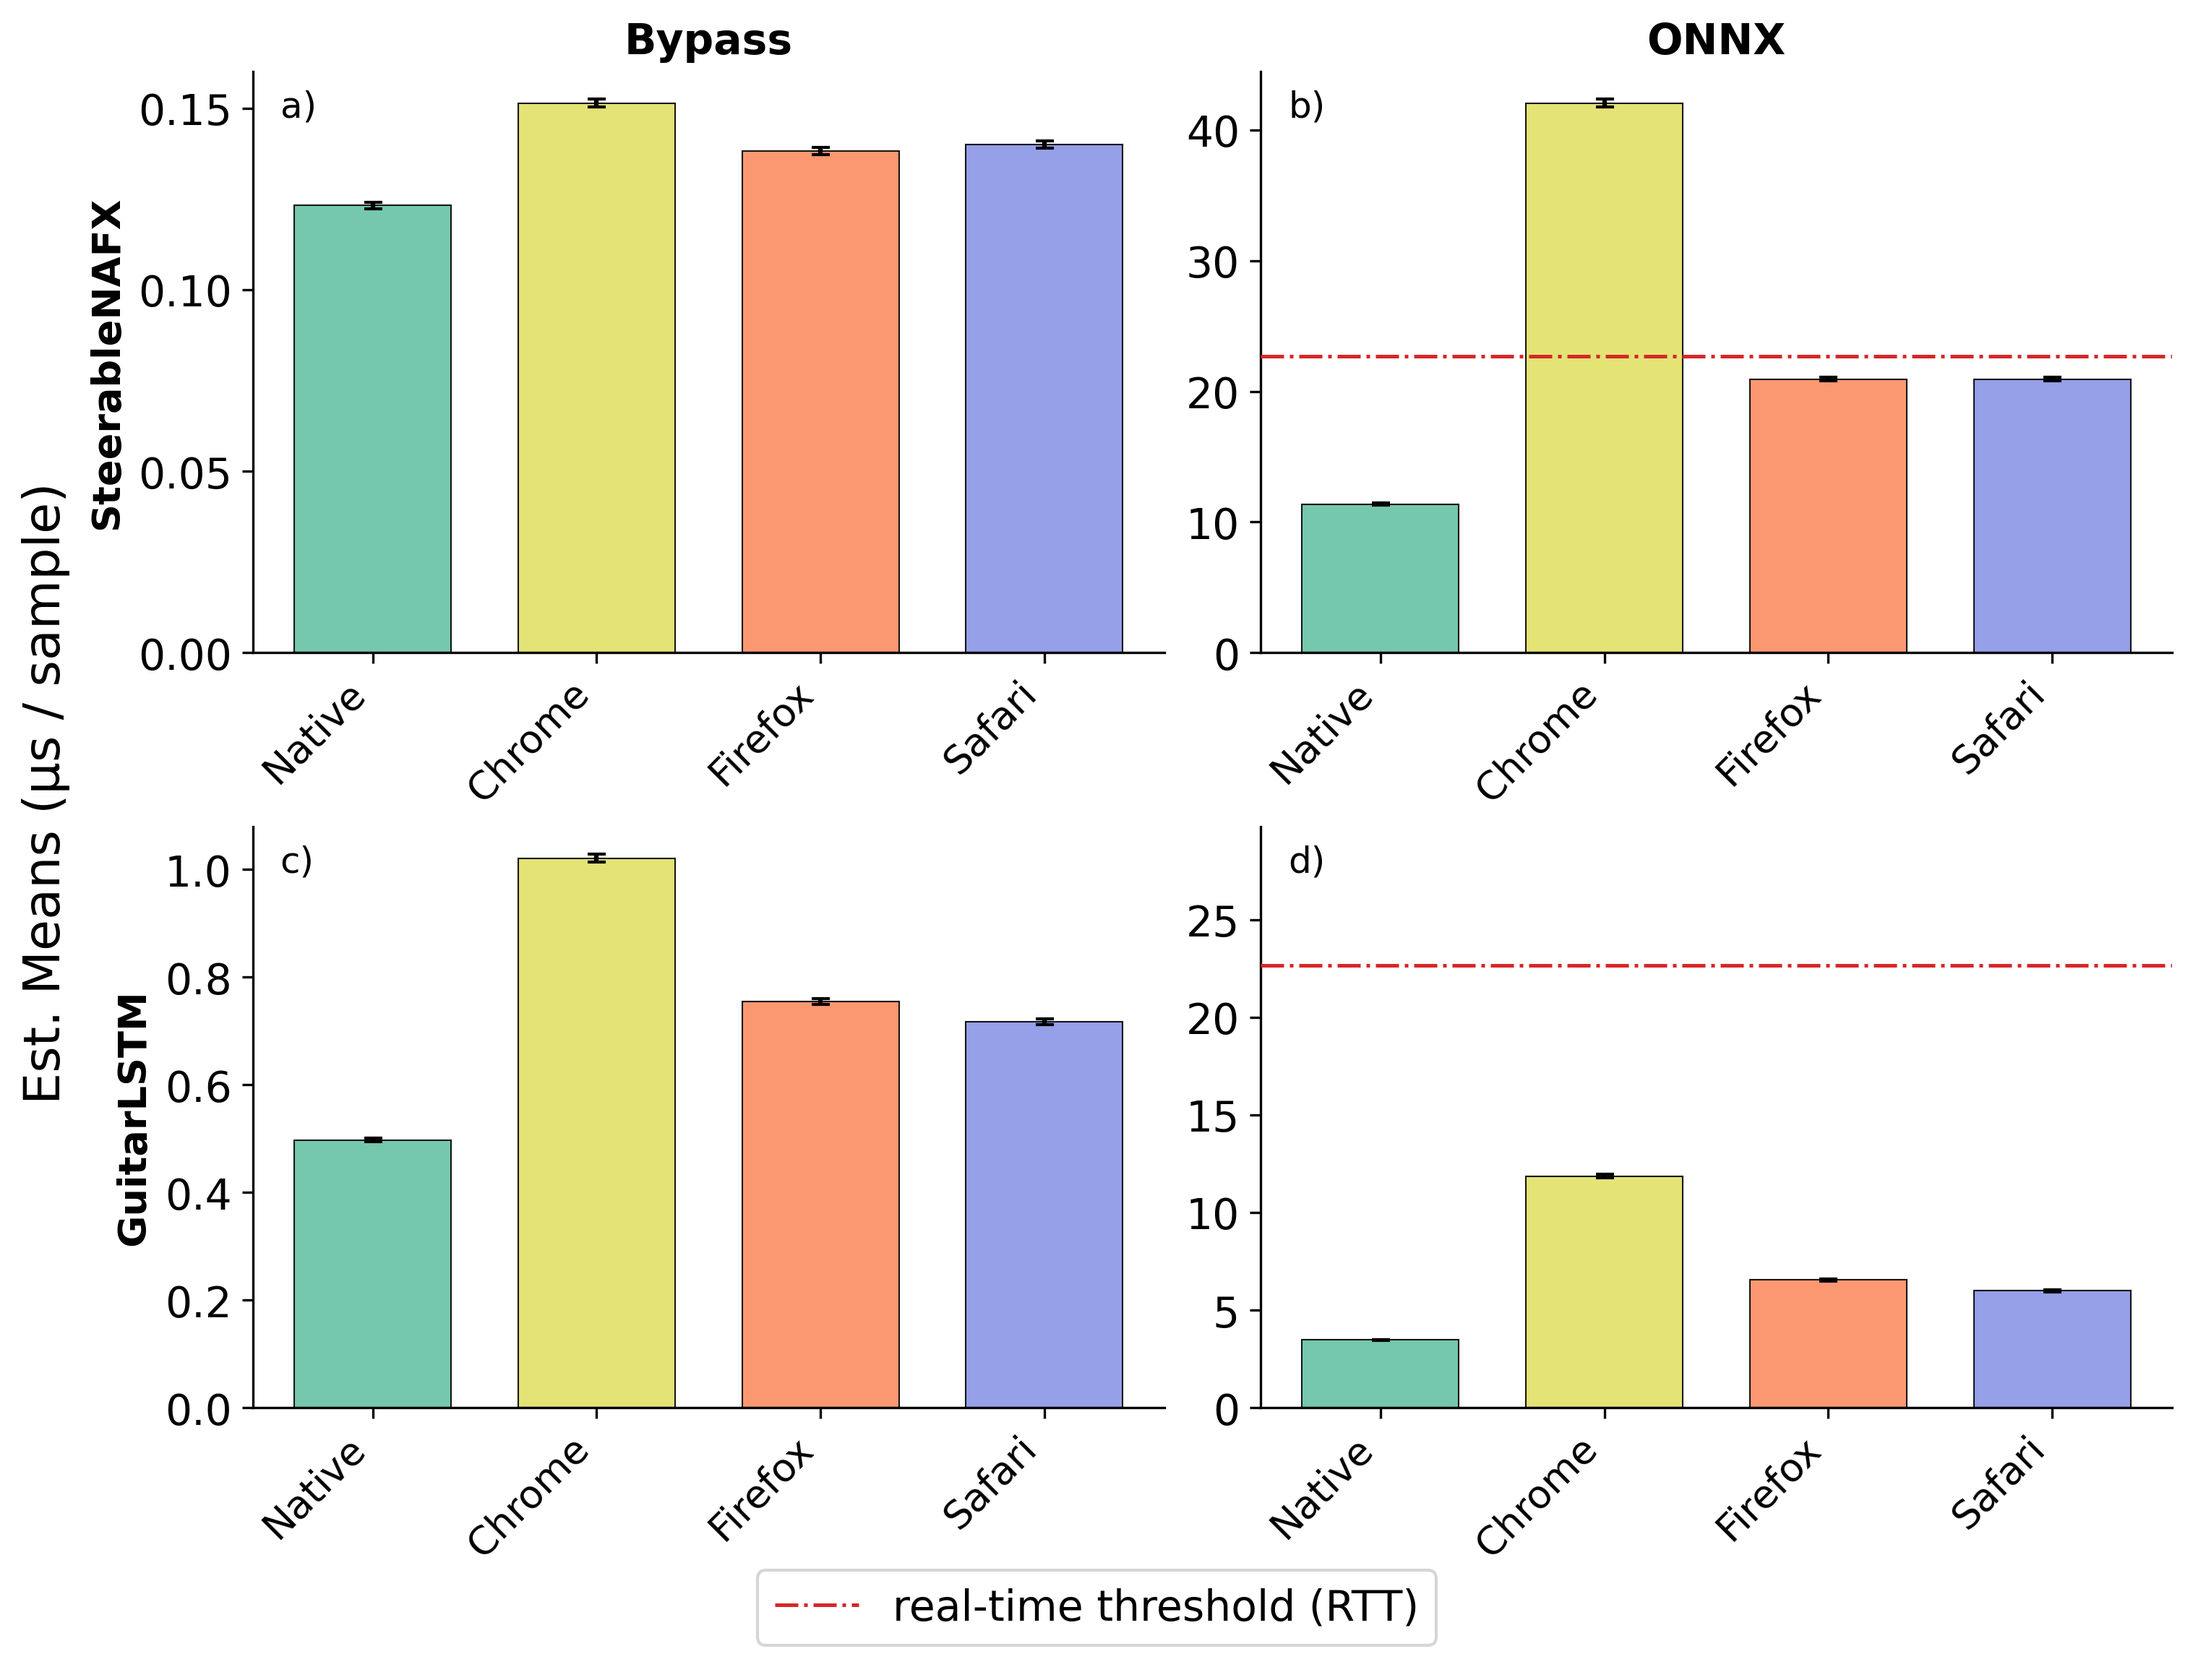
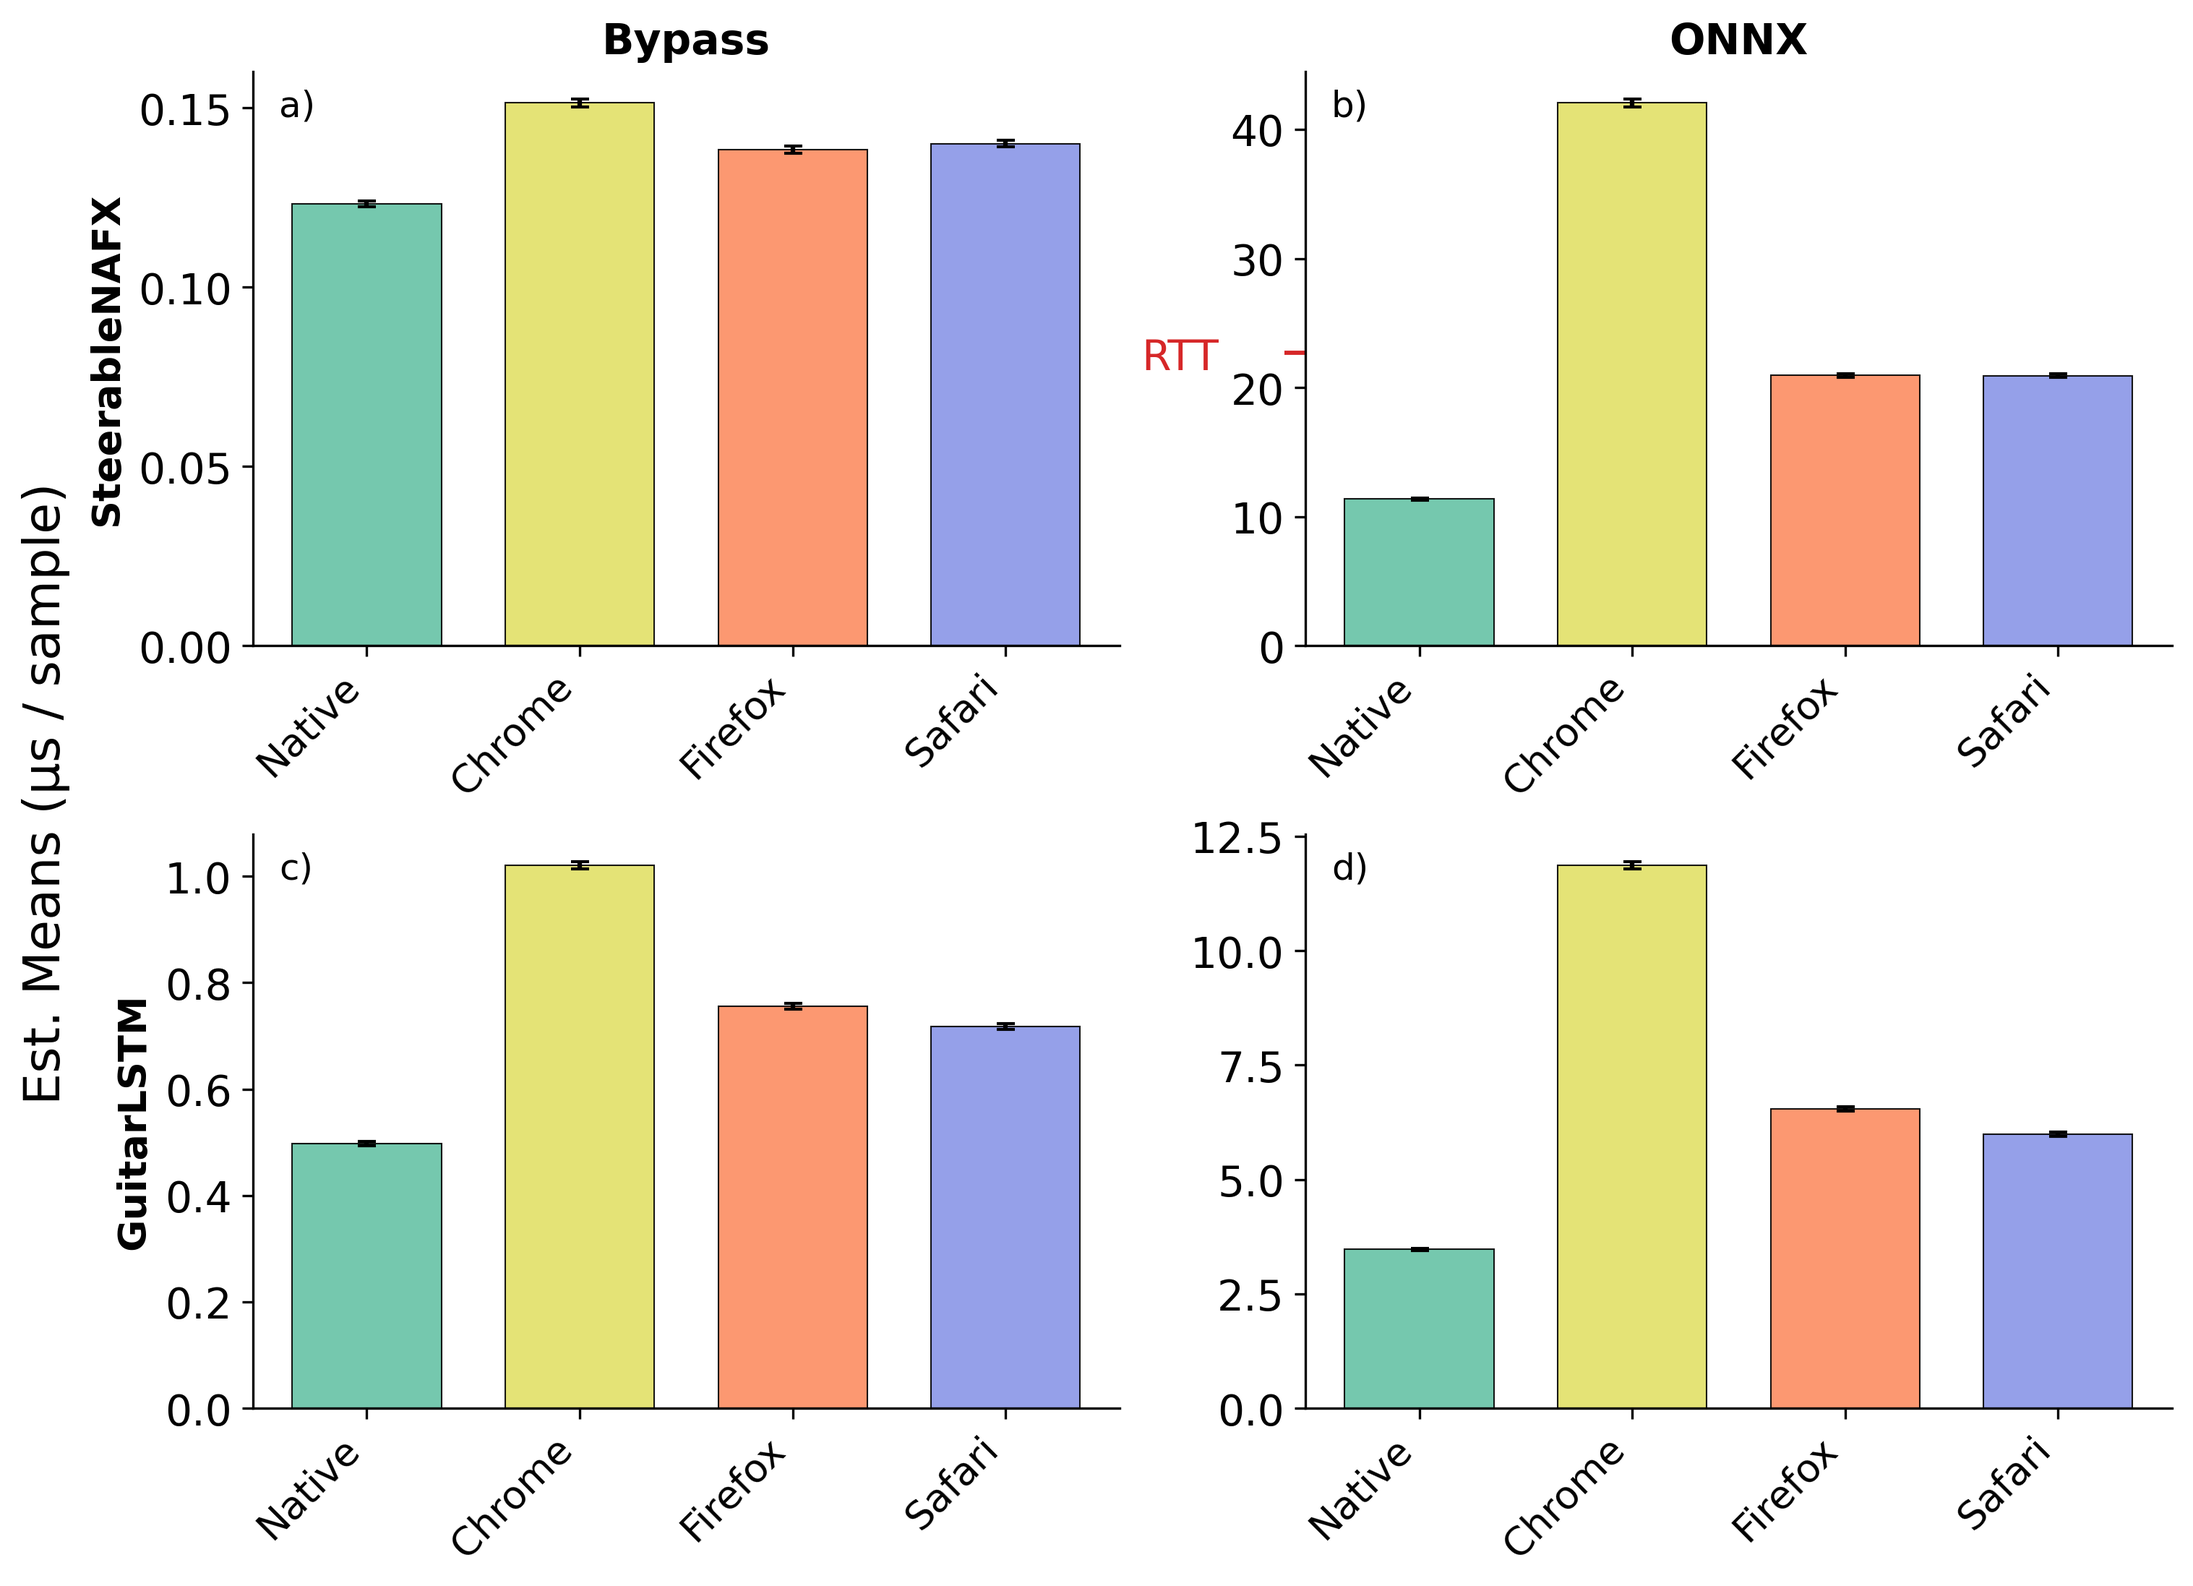
RTT tick

diff --git a/anira-web-r/source/commands/plots.py b/anira-web-r/source/commands/plots.py
@@ -41,24 +41,61 @@ PP_HATCHES = {"wasm": "", "js": "///"}
 Y_LABEL = "Est. Means (µs / sample)"
 
 # Real-time threshold: available processing time per sample at 44.1 kHz.
-# RpS is per-sample, so one horizontal line is valid for every buffer size.
-# Only drawn in ONNX panels — bypass estimates lie >1 order of magnitude below.
+# RpS is per-sample, so one level is valid for every buffer size. It is marked
+# as a labelled tick on the y-axis rather than a line through the panel: a
+# tick does not take part in autoscaling, so the panels keep the y-range their
+# data needs, and a tick outside the axis range is simply not drawn. The mark
+# can therefore be requested on every panel and appears wherever the data
+# comes close enough to the threshold for it to matter.
 RTT_US_PER_SAMPLE = 1e6 / 44100  # ≈ 22.68 µs/sample
 RTT_COLOR = "#d62728"
-RTT_LABEL = "real-time threshold (RTT)"
+RTT_LABEL = "RTT"
+RTT_TICK_LENGTH = 7
+RTT_LABEL_GAP_PT = 4
 
 
 def _draw_rtt(ax):
-    ax.axhline(RTT_US_PER_SAMPLE, ls="-.", color=RTT_COLOR, lw=1.2, zorder=4)
-    # Invisible sentinel that participates in autoscale, so the line keeps
-    # some headroom instead of grazing the top edge (and the panel letter)
-    # when all data lies below the threshold. No effect on panels whose
-    # data already exceeds it.
-    ax.plot([0], [RTT_US_PER_SAMPLE * 1.25], ls="none", marker="")
+    """Mark the RTT as a labelled minor tick on the y-axis.
+
+    Must be called after any set_yscale()/locator setup, as those reset the
+    minor locator and formatter. Call _place_rtt_labels() on the finished
+    figure so the label clears the major tick labels."""
+    # Not set_yticks(minor=True): that expands the view limits to include the
+    # tick, which is exactly the autoscale effect this is meant to avoid.
+    ax.yaxis.set_minor_locator(ticker.FixedLocator([RTT_US_PER_SAMPLE]))
+    ax.yaxis.set_minor_formatter(ticker.FixedFormatter([RTT_LABEL]))
+    ax.tick_params(
+        axis="y",
+        which="minor",
+        colors=RTT_COLOR,
+        length=RTT_TICK_LENGTH,
+        width=1.4,
+    )
 
 
-def _rtt_handle():
-    return Line2D([0], [0], color=RTT_COLOR, lw=1.2, ls="-.", label=RTT_LABEL)
+def _place_rtt_labels(fig):
+    """Push each panel's RTT tick label left of its major tick labels.
+
+    The threshold sits between the major ticks at 20 and 30 (on the log axes
+    only a few points away from them), so a label at the default pad would
+    overprint a major label. The pad is derived from the rendered width of the
+    major labels that are actually visible, so it adapts to each axis format.
+    Panels whose y-range does not reach the RTT are left alone; their tick is
+    not drawn anyway."""
+    fig.canvas.draw()
+    renderer = fig.canvas.get_renderer()
+    px_to_pt = 72.0 / fig.dpi
+    for ax in fig.axes:
+        lo, hi = ax.get_ylim()
+        if not lo <= RTT_US_PER_SAMPLE <= hi:
+            continue
+        widths = [
+            t.label1.get_window_extent(renderer).width
+            for t in ax.yaxis.get_major_ticks()
+            if lo <= t.get_loc() <= hi and t.label1.get_visible() and t.label1.get_text()
+        ]
+        pad = max(widths, default=0.0) * px_to_pt + RTT_LABEL_GAP_PT
+        ax.tick_params(axis="y", which="minor", pad=pad)
 
 
 def _apply_style():
@@ -146,8 +183,7 @@ def plot_rq1_environment(results_dir, out_dir):
                 edgecolor="black",
                 linewidth=0.5,
             )
-            if run == "onnx":
-                _draw_rtt(ax)
+            _draw_rtt(ax)
 
             ax.set_xticks(x)
             ax.set_xticklabels(envs, rotation=45, ha="right")
@@ -162,13 +198,8 @@ def plot_rq1_environment(results_dir, out_dir):
                     MODEL_TITLES.get(model, model), fontweight="bold", fontsize=13
                 )
 
-    fig.legend(
-        handles=[_rtt_handle()],
-        loc="lower center",
-        bbox_to_anchor=(0.5, -0.06),
-        frameon=True,
-    )
     fig.supylabel(Y_LABEL)
+    _place_rtt_labels(fig)
     _save(fig, out_dir, "rq1_environment.png")
 
 
@@ -242,7 +273,7 @@ def plot_rq2_iterations(results_dir, out_dir):
     star_handle = Line2D(
         [0], [0], marker="*", color="black", lw=0, label=f'p < {SIGNIFICANCE_THRESHOLD} vs. grand mean'
     )
-    legend_handles = solid_handles + [star_handle] + avg_handles + [_rtt_handle()]
+    legend_handles = solid_handles + [star_handle] + avg_handles
     fig.legend(
         handles=legend_handles,
         loc="lower center",
@@ -251,7 +282,10 @@ def plot_rq2_iterations(results_dir, out_dir):
         frameon=True,
     )
     fig.supylabel(Y_LABEL, x=0.02)
-    fig.subplots_adjust(top=0.97, bottom=0.1, hspace=0.25)
+    # Wider left margin than the default: room for the RTT tick labels
+    # between the shared y-axis label and the panels.
+    fig.subplots_adjust(top=0.97, bottom=0.1, left=0.16, hspace=0.25)
+    _place_rtt_labels(fig)
     _save(fig, out_dir, "rq2_iteration_effects.png")
 
 
@@ -328,12 +362,6 @@ def plot_rq3_overhead(results_dir, out_dir):
                         linewidth=0.5,
                     )
 
-                # Only where the data approaches the threshold (violations
-                # occur solely in ONNX SteerableNAFX); elsewhere the line
-                # would double the y-range and flatten the bar differences.
-                if group_key == "onnx" and model == "steerable-nafx":
-                    _draw_rtt(ax)
-
                 letter = chr(97 + row_idx * n_plot_cols + global_col)
                 ax.text(
                     0.03,
@@ -362,7 +390,9 @@ def plot_rq3_overhead(results_dir, out_dir):
                 ax.yaxis.set_major_formatter(
                     ticker.LogFormatterSciNotation(labelOnlyBase=False)
                 )
-                ax.yaxis.set_minor_formatter(ticker.NullFormatter())
+                # Replaces the log locator's unlabelled minor ticks; the tick
+                # only renders in panels whose range reaches the threshold.
+                _draw_rtt(ax)
 
             global_col += 1
 
@@ -387,14 +417,15 @@ def plot_rq3_overhead(results_dir, out_dir):
         for pp in pp_order
     ]
     fig.legend(
-        handles=backend_handles + pp_handles + [_rtt_handle()],
+        handles=backend_handles + pp_handles,
         loc="lower center",
-        ncol=len(backend_handles) + len(pp_handles) + 1,
+        ncol=len(backend_handles) + len(pp_handles),
         bbox_to_anchor=(0.5, -0.01),
         frameon=True,
         fontsize=11,
     )
     plt.subplots_adjust(bottom=0.06)
+    _place_rtt_labels(fig)
 
     _save(fig, out_dir, "rq3_overhead.png")
 
